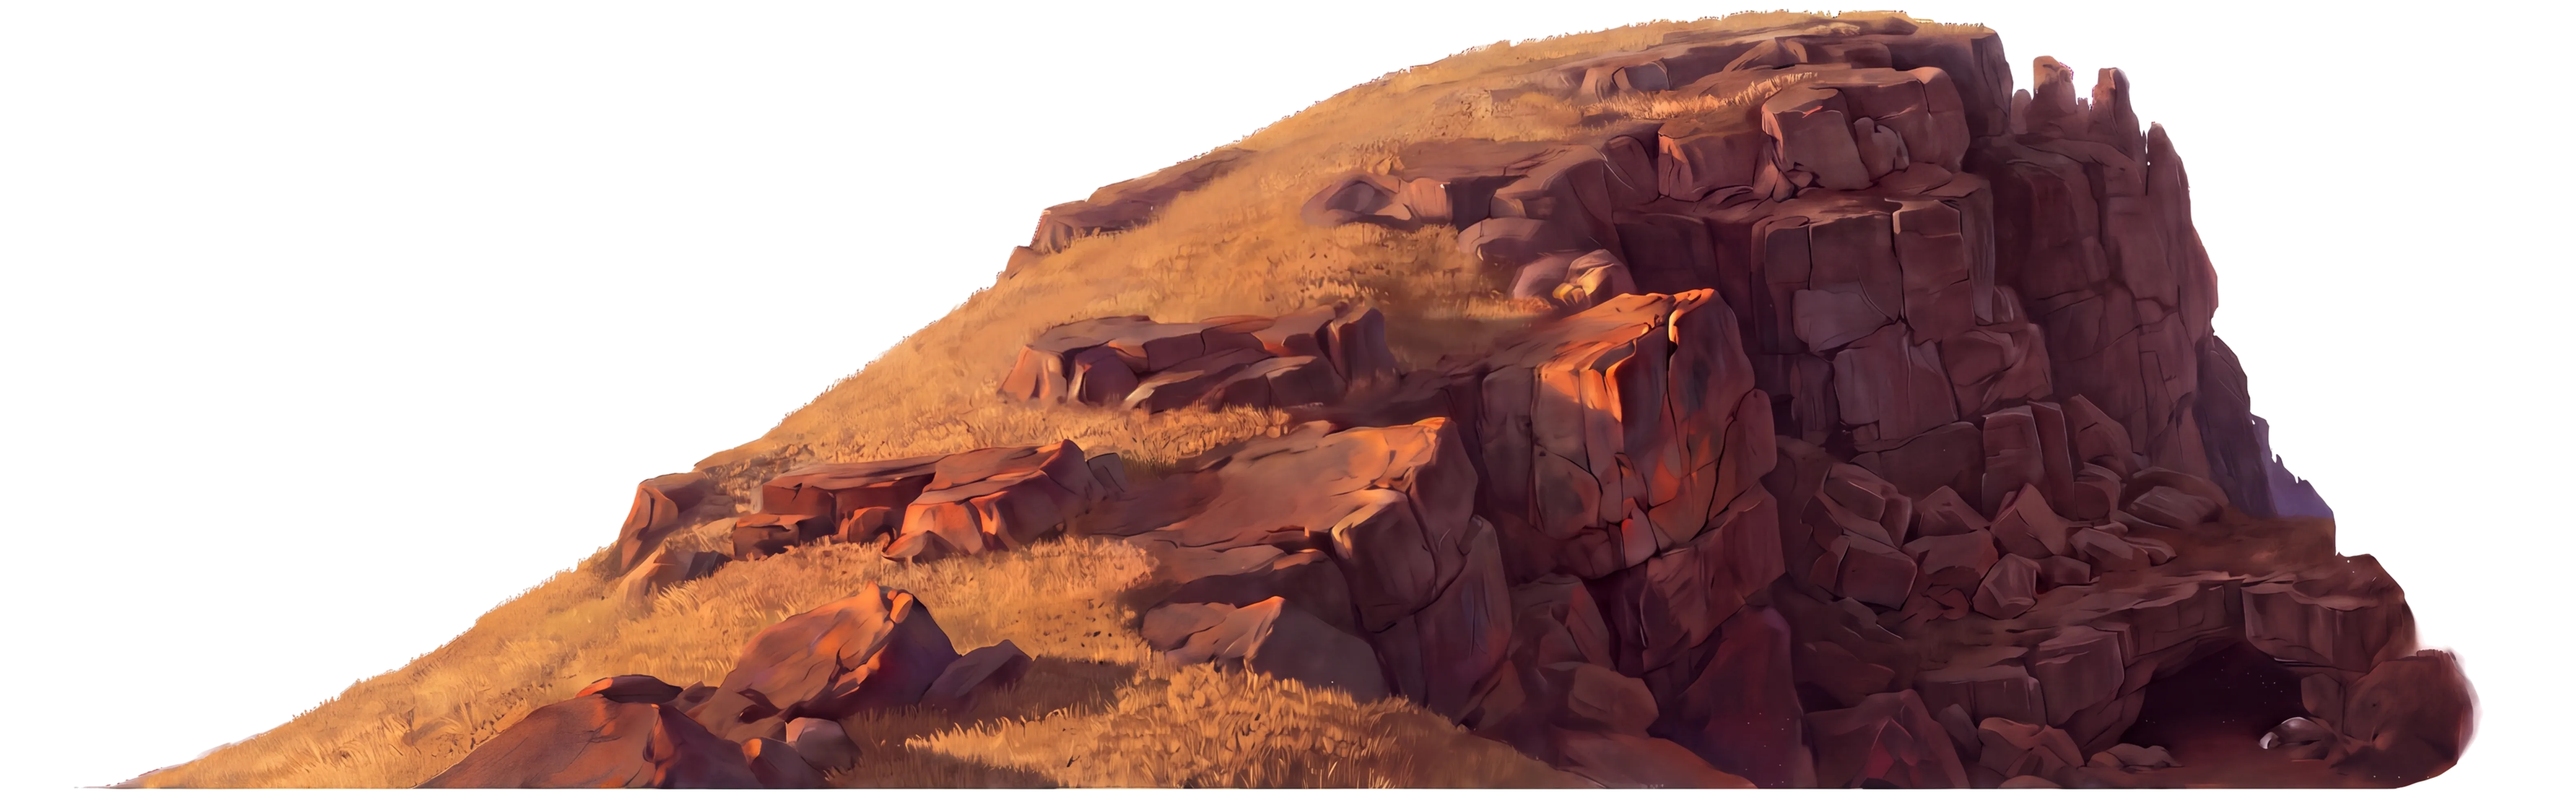
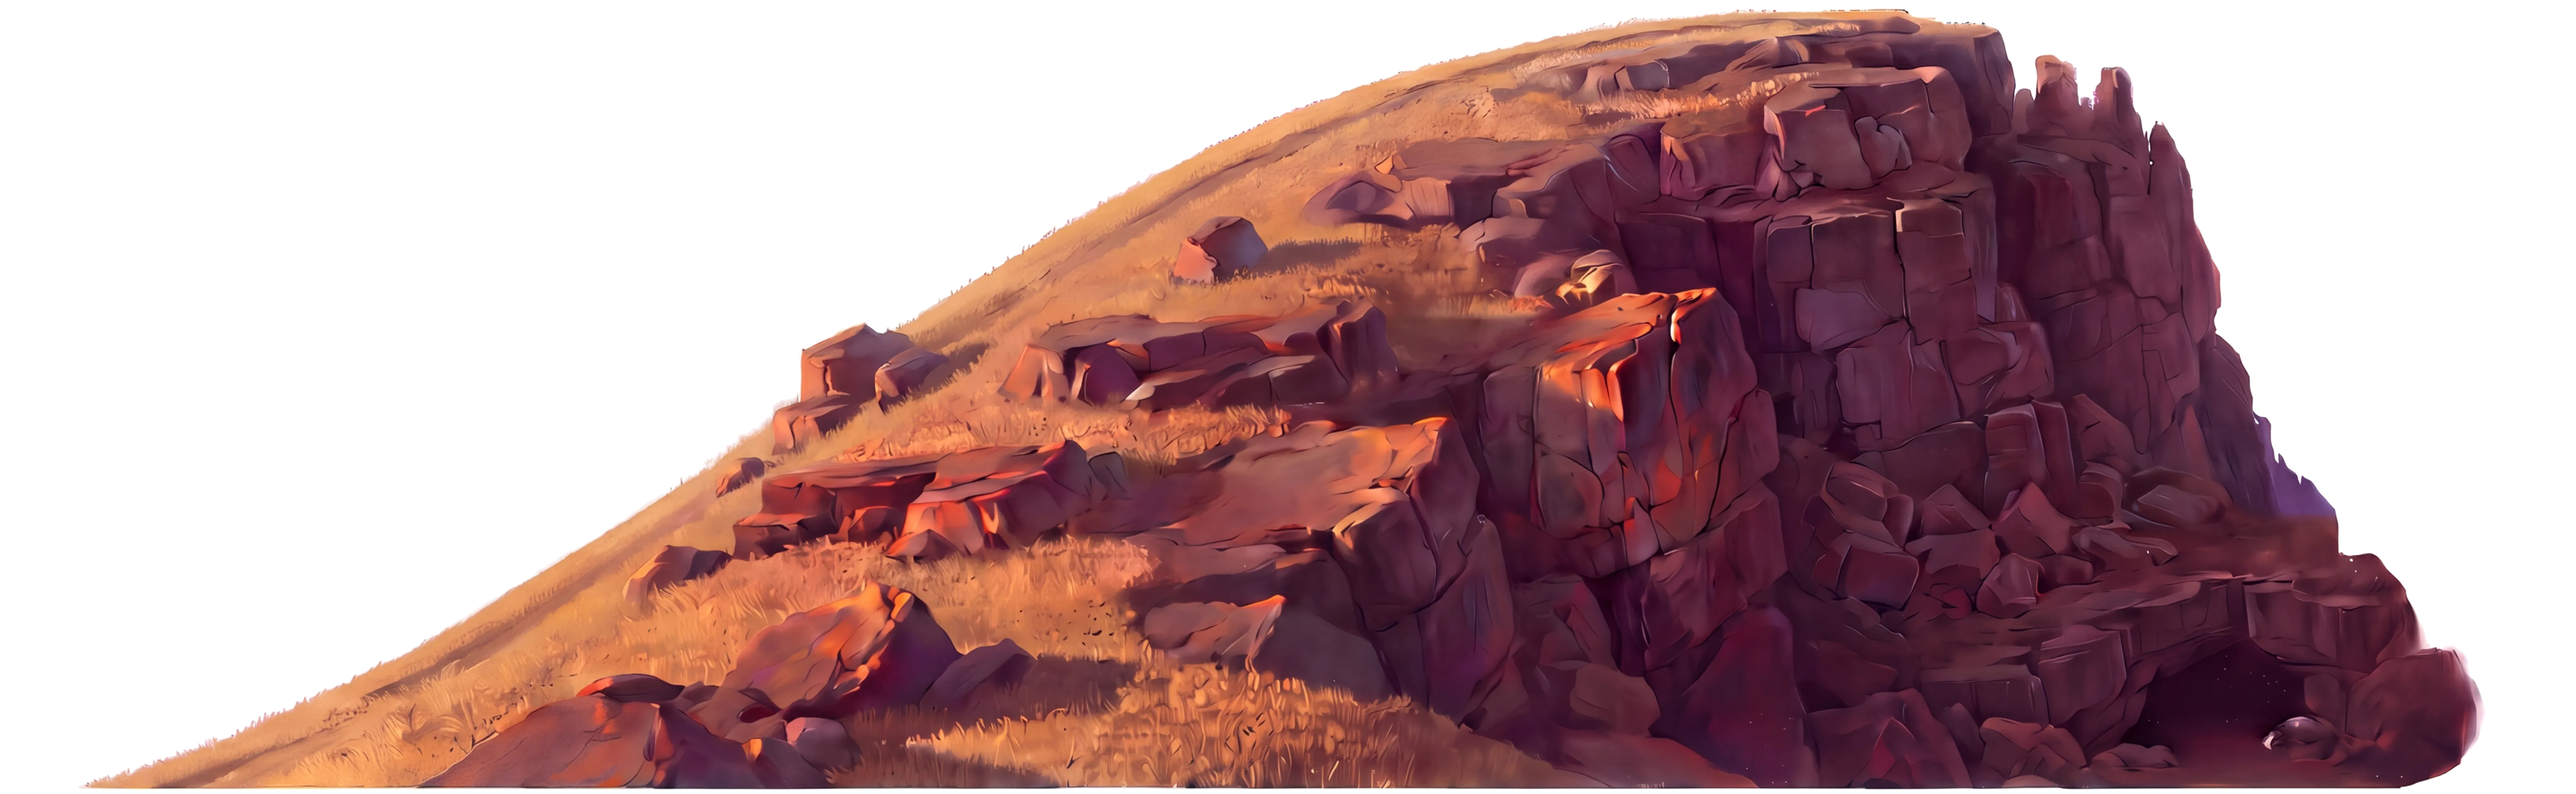
Build 617: Level 5 ?look=f, smooth edge, rocks on the slope
Claude-Session: https://claude.ai/code/session_017HrTSCxzgPwtaNLRtpHiFb

diff --git a/cross.js b/cross.js
@@ -86,8 +86,8 @@ const CR = (() => {
   // the painting's own skyline (PIN_TAB, painting units at SK_H 1080 from painting x 3160 every 8, from its alpha before
   // the left fade) is the land's outline (pinDraw) and, smoothed, the line he walks on (gh); toward the painting's left
   // end both blend into the drawn ramp over its fade (PIN_W)
-  const PIN_ON = /[?&]look=f\b/.test(location.search), HP_TOP = PIN_ON ? -1097.65 : -1089.42, HP_H = PIN_ON ? 1101.03 : 1093.75, HP_X = PIN_ON ? 2064.71 : 3149.64, HP_W = PIN_ON ? 3564.71 : 2478.34;
-  const PIN_TAB = [0,0,0,0,0,0,0,0,0,0,0,0,8,0,8,9,9,10,12,12,15,19,20,25,28,30,33,35,37,38,40,42,45,48,56,60,63,66,69,69,71,74,78,81,83,86,89,93,97,100,107,111,114,116,120,128,130,129,140,146,152,159,156,159,163,165,170,170,173,178,186,186,194,195,197,204,206,212,219,223,228,235,245,251,255,262,266,272,271,275,283,285,288,294,299,305,309,311,309,323,326,327,334,341,342,348,360,377,393,422,432,435,437,440,441,442,443,443,444,455,460,464,469,473,474,477,479,482,485,488,491,496,502,507,514,527,529,533,538,540,547,555,563,567,574,575,578,583,586,595,600,608,612,617,623,628,634,637,642,646,652,654,659,666,674,676,681,691,697,698,700,705,722,731,751,758,757,760,781,802,810,813,815,817,819,820,821,823,832,838,841,843,846,847,850,852,853,856,859,862,865,868,869,874,877,880,883,887,887,894,896,898,901,904,911,911,918,921,922,928,931,937,938,943,944,950,953,959,960,963,968,972,975,980,982,983,986,990,992,999,999,1002,1003,1007,1008,1009,1010,1013,1016,1018,1024,1024,1028,1032,1034,1035,1036,1037,1041,1043,1043,1036,1040,1044,1045,1044,1045,1049,1047,1050,1053,1050,1054,1055,1055,1054,1055,1060,1059,1061,1064,1062,1067,1067,1067,1072,1070,1072,1070,1070,1070,1068,1070,1075,1076,1075,1075,1078,1077,1081,1083,1084,1084,1082,1081,1081,1084,1086,1085,1081,1081,1083,1081,1080,1084,1081,1076,1082,1082,1082,1084,1084,1083,1084,1084,1084,1084,1084,1084,1077,1073,1072,1072,1071,1067,1064,1066,1066,1064,1067,1065,1066,1065,1060,1056,1045,1014,994,974,975,969,1018,1021,1021,1019,1013,1010,1005,971,963,962,977,1001,1004,1004,1005,1000,989,944,927,915,928,928,923,909,894,882,862,802,778,760,744,726,630,622,613,604,585,551,523,520,515,469,469,454,445,435,434,433,425,413,405,395,372,330,327,329,330,331,330,324,314,305,296,287,269,254,237,209,203,200,200,201,200,194,186,159,146,118,0,0,0,0,0,0,0,0,0,0,0,0,0,0,0], PIN0 = 2073, PIN1 = PIN0 + 8 * (PIN_TAB.length - 1);
+  const PIN_ON = /[?&]look=f\b/.test(location.search), HP_TOP = PIN_ON ? -1096.53 : -1089.42, HP_H = PIN_ON ? 1099.91 : 1093.75, HP_X = PIN_ON ? 2064.71 : 3149.64, HP_W = PIN_ON ? 3564.71 : 2478.34;
+  const PIN_TAB = [0,0,0,0,0,0,0,0,0,0,0,0,0,7,13,15,17,21,20,24,28,32,28,33,38,38,42,44,48,49,54,58,59,61,65,73,75,73,74,79,87,86,91,98,104,108,110,111,115,114,122,124,128,132,138,142,142,146,149,151,160,162,165,172,175,179,181,185,187,192,196,201,208,212,216,220,227,231,235,238,244,249,255,260,264,269,275,280,284,288,293,298,304,309,313,318,325,330,333,337,342,347,351,356,363,367,373,376,383,388,393,399,403,408,412,421,424,432,437,438,445,457,461,465,469,479,483,493,495,499,503,511,518,535,541,542,543,550,614,616,621,624,628,632,638,641,645,647,650,648,641,636,637,640,644,650,653,657,664,668,673,677,683,687,691,698,702,709,712,717,718,727,729,737,740,744,756,758,760,766,774,778,780,784,790,796,799,804,808,817,817,824,828,830,836,841,846,847,856,857,860,863,867,871,876,879,884,889,893,896,901,904,907,910,915,918,922,925,931,933,936,940,942,947,948,952,955,956,959,962,964,969,972,974,977,980,982,985,987,989,992,998,999,999,1001,1005,1009,1008,1011,1012,1015,1016,1018,1020,1021,1025,1025,1027,1030,1030,1031,1034,1036,1039,1039,1040,1043,1045,1048,1047,1050,1051,1052,1054,1059,1060,1063,1061,1060,1067,1067,1071,1072,1071,1070,1071,1070,1071,1072,1073,1073,1074,1074,1075,1077,1077,1079,1080,1080,1082,1082,1082,1084,1081,1084,1082,1083,1081,1081,1081,1081,1081,1081,1081,1082,1082,1084,1084,1083,1084,1084,1084,1084,1085,1085,1085,1085,1085,1084,1081,1075,1073,1073,1073,1067,1066,1067,1066,1064,1066,1065,1064,1066,1061,1058,1052,1026,1007,971,974,973,1014,1020,1021,1021,1016,1012,1009,1003,962,963,970,982,1004,1004,1005,1003,996,958,938,914,915,929,928,915,903,885,873,840,785,769,752,733,717,624,617,609,591,577,525,520,518,480,468,461,448,442,437,434,429,417,408,399,389,332,328,328,329,330,331,327,319,308,300,292,281,260,245,227,204,200,199,200,201,197,191,165,154,136,0,0,0,0,0,0,0,0,0,0,0,0,0,0,0], PIN0 = 2073, PIN1 = PIN0 + 8 * (PIN_TAB.length - 1);
   const PIN_S = PIN_TAB.map((v, i) => { let a = 0, n = 0; for (let j = -10; j <= 10; j++) { const q = PIN_TAB[i + j]; if (q != null) { a += q; n++; } } return a / n; });
   const pinS = () => SK_H / 1080, pinW = xp => pinS() * (xp - 4380) + SK_X;
   function pinAt(T, x) { const s = pinS(), xp = 4380 + (x - SK_X) / s; if (xp < PIN0) return -1; if (xp >= PIN1) return 0;
@@ -220,7 +220,7 @@ const CR = (() => {
     // the hill painted by the image model (round 2 of the owner's hill): rounded weathered rock, toned dark grey, its left
     // end faded into the drawn ramp; cropped to the rock at 1.5 px a world unit (at SK_H 1080): world x 2834 to 5654, height 1089 down to 2 below the ground
     // ?look=f: the hill painted as Friedrich's crag (build 606), laid on the same outline as the old painting
-    if (HP_ON) loadImg(LOOKF ? 'hill-crag.webp?v=616' : 'hill-cross.webp?v=601').then(im => { HPAINT = im; }).catch(() => {});
+    if (HP_ON) loadImg(LOOKF ? 'hill-crag.webp?v=617' : 'hill-cross.webp?v=601').then(im => { HPAINT = im; }).catch(() => {});
     // the burning hill's own painted rock (Level 3), made a grey tile as hill.js makes it, laid over the hill in 'overlay'
     loadImg('hill-rock.webp').then(rock => { const sx = 720, sy = 540, w = 780, h = 600, t = document.createElement('canvas'); t.width = w; t.height = h; const q = t.getContext('2d'); q.drawImage(rock, sx, sy, w, h, 0, 0, w, h);
       const d = q.getImageData(0, 0, w, h), D = d.data; let m = 0; for (let i = 0; i < D.length; i += 4) m += D[i] * .3 + D[i + 1] * .59 + D[i + 2] * .11; m /= D.length / 4;

diff --git a/index.html b/index.html
@@ -184,7 +184,7 @@ body.portrait:not(.playing) #rot{display:none}
   </div>
   <button id="snd" aria-label="Sound on or off">♪</button>
   <button id="autoWalk" aria-label="He walks on by himself"><svg viewBox="0 0 24 24"><path d="M5 6l6 6-6 6M12 6l6 6-6 6"/></svg></button>
-  <div id="build">build 616 · Nov 24 2026</div>
+  <div id="build">build 617 · Nov 24 2026</div>
 </div></div>
 <div id="rot">Turn your phone sideways for a bigger picture</div>
 <script>
@@ -2900,7 +2900,7 @@ document.getElementById('on2').onclick = () => SL.on ? go3() : HL.on ? goRoom('d
 <script src="rooms.js?v=571"></script>
 <script src="heaven.js?v=547"></script>
 <script src="keepsakes.js?v=505"></script>
-<script src="cross.js?v=616"></script>
+<script src="cross.js?v=617"></script>
 <script src="editor.js?v=609"></script>
 </body>
 </html>

diff --git a/story-lab.html b/story-lab.html
@@ -3,4 +3,4 @@
 <title>Pilgrim's Progress</title>
 <!-- The game moved to the main page in build 119. This page only sends old links (and Home Screen icons) on to it. -->
 <script>location.replace('./' + location.search + location.hash);</script>
-<p><a href="./">Pilgrim's Progress</a> <span id="build">build 616 · Nov 24 2026</span></p>
+<p><a href="./">Pilgrim's Progress</a> <span id="build">build 617 · Nov 24 2026</span></p>

diff --git a/CLAUDE.md b/CLAUDE.md
@@ -40,7 +40,7 @@ A gentle side-scrolling story walk for kids ages 7 to 10, following Bunyan's *Th
 ## Working with the owner
 
 - **Repo `Twhidbey/pilgrims-progress`, branch `main`. Pushing `main` publishes the game** (GitHub Pages, https://twhidbey.github.io/pilgrims-progress/, 1 to 2 minutes). Commit and push after every change, then tell the owner it is live; a phone may show an old copy, so suggest `?v=N`. **Always give two links when a build is live (owner, build 187: "can you output [the editor link] by default and make note in notes"):** the game, `https://twhidbey.github.io/pilgrims-progress/?v=N`, and the editor link, `https://twhidbey.github.io/pilgrims-progress/?edit&v=N` (skip arrows, see Testing); add `&level=2` or `&level=3` when the change is in that level.
-- **Build stamp** (`id="build"`, bottom right): `build N · date` in `index.html` and `story-lab.html`. Bump N on **every** push that changes the game, so one number means one push. Keep the form `id="build">... build N` (the page's self-update reads it). **Currently build 616.** The two script tags at the end of `index.html` carry `?v=N` (`slough.js?v=`, `hill.js?v=`): set them to the build that last changed each file, so phones fetch the new copy. Several chats push at once: `git fetch` and rebase on `origin/main` just before pushing, and take the next number after whatever is there.
+- **Build stamp** (`id="build"`, bottom right): `build N · date` in `index.html` and `story-lab.html`. Bump N on **every** push that changes the game, so one number means one push. Keep the form `id="build">... build N` (the page's self-update reads it). **Currently build 617.** The two script tags at the end of `index.html` carry `?v=N` (`slough.js?v=`, `hill.js?v=`): set them to the build that last changed each file, so phones fetch the new copy. Several chats push at once: `git fetch` and rebase on `origin/main` just before pushing, and take the next number after whatever is there.
 - **SPEND AS LITTLE AS POSSIBLE (owner, build 106: "can you minimize spending - it's been pretty expensive for me last few days").** Video about 56 cents a try; a picture about 15 cents (`gemini-3-pro-image`); voice about a cent a line. **Before any paid call: say the cost and wait for a yes; keep the running total in `HANDOFF.md`.** Ways to save, in order: (1) do it in code first (breathing, sway, cloth and hair movement, small moves by warping a still, mirroring, tinting, reusing a figure); (2) build first and last frames from frames we already have; (3) draft pictures on `gemini-2.5-flash-image` (about a third of the price), the pro model only for the final; (4) show the owner a still before any video; (5) get two clips from one video (play backwards or back and forth); (6) write video prompts that pass the safety filter first time (no "sunk", "drowning", "thrashing", "desperate", "frightened"; say "thick sticky mud", "heaves", "cross and grumbling"); (7) a shorter video if the API offers one cheaper (not yet checked).
 - **Keep `CLAUDE.md` and `HANDOFF.md` updated after every change.** The repo is public: no names, emails or other personal details in notes, code or commits.
 - **Players:** kids 7 to 10, mostly on an iPhone. Gentle: no lives, no game over, read-aloud words, short simple sentences.
@@ -950,5 +950,7 @@ Counted by episode from the book's section numbers (later long conversations shr
 **Build 615: THE TRACK ACROSS THE FACE PAINTED OUT, A WORN TRACK ALONG THE EDGE, FOR `?look=f` (owner: "Yes please do can run a couple times if need be", to a repaint putting the track beside the edge where he walks; two `gemini-3-pro-image-preview` edits, 4K, about 50 cents).** Guide sketch as build 611 (scale figures at his true size on the edge and a thin red line 16 painting px under the skyline; `ramp/sketch5.py` in the session scratchpad). Run 1 (from build 611's painting) removed the winding track from the lower slope and smoothed the upper skyline, but painted no track along the line and left a short stretch of the old track high up near the edge; run 2 (from run 1) put a dark winding track back across the face: not used. **Lesson: the model will not paint a track ALONG an edge it is told to keep; it paints tracks across the face.** So run 1's painting is in (`assets/hill-crag.webp?v=615`, cut by `ramp/cut.py paint5.png`, `HP_*` and `PIN_TAB` updated), and the track along the edge is drawn in code (`land()`, under `LOOKF`): a thin band of pale trodden earth 3 to 18 units under his walking line (`gh`), its width and strength wandering, from the hill's foot to just short of the cross, lit with the dawn. Before and after stills shown; playtest 5 reaches the end card. Spent: about 50 cents.
 
 **Build 616: THE OLD TRACK PAINTED OUT FOR FREE, FOR `?look=f` (owner: "could you remove the other path, that might help?").** The short stretch of build 611's winding track left high on the slope after build 615 is gone: a crop of the slope (painting x 2250 to 4410, y 600 to 1680) was given to the free FLUX Kontext model ("remove the narrow worn footpath ... fill it with the same fine dry golden grass ... keep everything else exactly"), right first time; its answer (1440 x 720) was enlarged back, colour-matched inside the hill, and laid over the painting only on the grassy slope (45 px in from the skyline so the edge is the original's, feathered at the crop's borders and faded out over the rocks on the right): `ramp/paint6b.png` in the session scratchpad, cut into `assets/hill-crag.webp?v=616`. That patch is a little softer than the rest at full size, not seen at game size. The code track along the edge (build 615) stays. Next, offered: a paid repaint of a pale band laid along the edge into a real track, now that no other track competes. Nothing spent.
+
+**Build 617: A SMOOTH EDGE TO RUN ALONG, ROCKS DOWN ON THE GRASS, FOR `?look=f` (owner: "if he runs along edge there should be [no] rocks on edge so his path is smooth ... you could put a few more rocks over some of the grassy area ... feel free to clean with image model in google"; two `gemini-3-pro-image-preview` edits, 4K, about 50 cents, the owner's yes).** Both with build 611's guide of scale figures on the edge (`ramp/sketch7.py`, `sketch8.py`). (1) From build 616's painting: the grassy slope's top edge one smooth, gently rising line, no rocks or notches on it, a thin worn strip just under it: right first time, but it also cleared some of the slope's rocks; the edge became a fuller S-curve. (2) From that: several outcrops and boulders added on the grass below the edge, the edge kept: it added two groups. A few stray specks in the white paper (they made the cut 450 px taller) were cleared by keeping only the hill's own piece (`paint8c.png`). `assets/hill-crag.webp?v=617`, `HP_TOP` -1096.53, `HP_H` 1099.91, `PIN_TAB` from it; his walking line follows the new smooth edge. The colours came back a little pinker. The code track along the edge (build 615) is kept on top of the painted one. Playtest 5 reaches the end card. Spent: about 50 cents.
 
 A first finish line: **Level 5, the Cross** (the burden carried since the first screen falls off), so Levels 1 to 5 stand as a whole game. Could be about 14 by also joining the Delectable Mountains with Ignorance, and the Enchanted Ground into the last level. Rough size: about $3 a level for pictures, videos and voices, more where there are many new people.

diff --git a/HANDOFF.md b/HANDOFF.md
@@ -244,6 +244,8 @@ The game is `index.html` (Level 1 in the page, Level 2 in `slough.js`; no build 
 
 ## START HERE (rewritten at build 140, Nov 16 2026)
 
+**Build 617 (art direction chat): `?look=f` the slope's top edge repainted smooth with a thin worn track, two rock groups added on the grass below. Spent: about 50 cents.**
+
 **Build 616 (art direction chat): `?look=f` the last of the old winding track painted out with the free FLUX model. Nothing spent.**
 
 **Build 615 (art direction chat): `?look=f` the winding track across the face painted out (one Google edit kept of two, about 50 cents in all), a faint worn track drawn in code along the edge where he walks. Spent: about 50 cents.**
